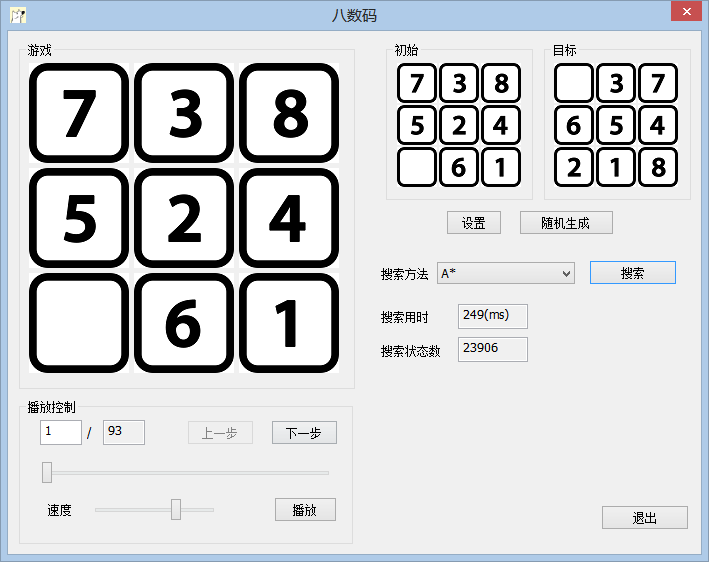
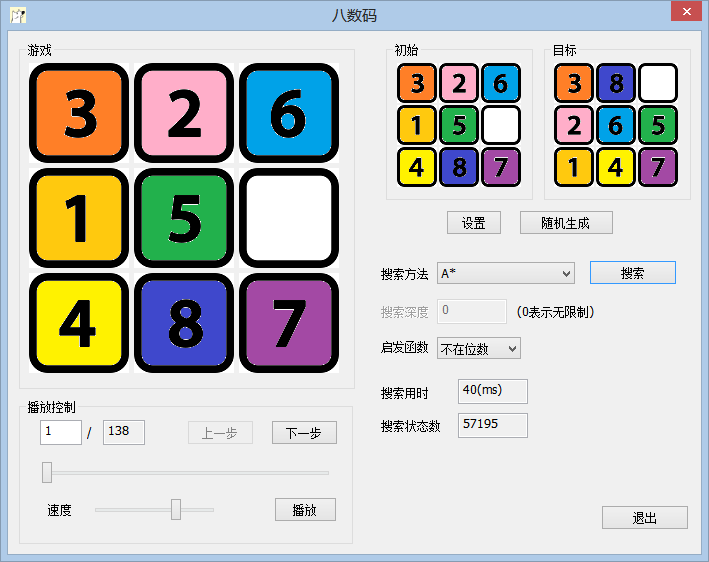
完善文档

diff --git a/Doc/八数码.tex b/Doc/八数码.tex
@@ -55,14 +55,15 @@
 \subsection{界面}
 \begin{figure}[H]
 \centering
-\includegraphics[width=0.8\textwidth]{1.png}
+\includegraphics[width=0.6\textwidth]{1.png}
 \caption{界面} 
 \end{figure}
 \subsection{操作说明}
 \subsubsection{始末状态}
 始末状态可以手动设置，也可以随机生成。（始末状态会通过逆序数方法检查是否可解，如果不可解就会提示用户；随机生成的组合都是可解的）
 \subsubsection{搜索方法}
-程序提供了3种搜索方法，可以通过下拉列表选择。
+程序提供了3种搜索方法，可以通过下拉列表选择。\par
+在A*算法中可以选择估值函数，在DFS算法中可以设置搜索深度。
 \subsubsection{结果演示}
 结果会在左侧显示，操作方法与普通视频播放器的风格类似，右侧给出了搜索用时和访问的状态数。
 \section{程序设计}
@@ -117,19 +118,116 @@ protected:
     clock_t stopTime;
 };
 \end{lstlisting}
-\subsubsection{搜索方法}
-
+\subsubsection{搜索算法}
+【BFS】
+ 广搜采用队列实现，部分代码如下：
+ \begin{lstlisting}
+ bool BFS::Search()
+{
+    EightFigureState state,temp;
+    route.push_back(startState);
+    close.insert(startState.data);
+    q.push(startState);
+    do 
+    {
+        state = q.front();
+        q.pop();
+        if (state == targetState)
+        {...}
+        for (int i = 0;i<4;i++)
+        {
+            temp = state;
+            if (temp.Move((Direction)i))
+            {
+                if (!close.count(temp.data))
+                {
+                    q.push(temp);
+                    close.insert(temp.data);
+                }
+            }
+        }
+    }while (!q.empty());
+    return false;
+}
+ \end{lstlisting}
+【DFS】
+深搜采用堆栈实现，部分代码如下：
+ \begin{lstlisting}
+ bool DFS::Search()
+{
+    EightFigureState state,temp;
+    startState.depth = 0;
+    route.push_back(startState);
+    close.insert(startState.data);
+    s.push(startState);
+    do 
+    {
+        state = s.top();
+        s.pop();
+        while((depth != 0) && (state.depth > depth))
+        {...}
+        if (state == targetState)
+        {...}
+        for (int i = 0;i<4;i++)
+        {
+            temp = state;
+            if (temp.Move((Direction)i))
+            {
+                if (!close.count(temp.data))
+                {
+                    temp.depth = state.depth + 1;
+                    s.push(temp);
+                    close.insert(temp.data);
+                }
+            }
+        }
+    }while (!s.empty());
+    return false;
+}
+ \end{lstlisting}
+【A*】
+A*算法采用优先队列实现，使用函数值f为关键码的优先队列，部分代码如下：
+ \begin{lstlisting}
+ bool AStar::Search()
+{
+    EightFigureState state,temp;
+    startState.depth = 0;
+    startState.fVaule = 10*(this->*clac)(startState,targetState);
+    close.insert(startState.data);
+    q.push(startState);
+    do 
+    {
+        state = q.top();
+        q.pop();
+        if (state == targetState)
+        {...}
+        for (int i = 0;i<4;i++)
+        {
+            temp = state;
+            if (temp.Move((Direction)i))
+            {
+                temp.depth = state.depth + 1;
+                temp.fVaule = temp.depth + 10*(this->*clac)(temp,targetState);
+                if (!close.count(temp.data))
+                {
+                    q.push(temp);
+                    close.insert(temp.data);
+                }
+            }
+        }
+    }while (!q.empty());
+    return false;
+}
+ \end{lstlisting}
 \section{设计心得}
 \subsection{收获}
-感觉在这次程序设计中类的编写和封装比上一次的实现有了提高，整个编程思路变清晰了。\par
+感觉在这次程序设计中类的编写和封装比上一次的实现有了提高，整个编程思路显得清晰了一些。\par
 而且在这次开发中使用了VS的单元测试框架，进行了一些单元测试，提高了开发的成功率，减少了调试消耗的时间，单元测试是一种很好的方法，以后会一直使用。
 \begin{figure}[H]
 \centering
 \includegraphics{2.png}
 \caption{单元测试} 
 \end{figure}
-\subsection{问题}
-A*算法中，估值函数的选取是一个值得分析的问题。
 \section{文件清单}
 \begin{itemize}
 \item src$\backslash$ 工程文件
@@ -145,7 +243,6 @@ A*算法中，估值函数的选取是一个值得分析的问题。
 \end{itemize}
 \item src$\backslash$ UnitTest $\backslash$ 单元测试
 \end{itemize}
-
 \item bin$\backslash$ 可执行文件
 \item doc$\backslash$ 文档
 \end{itemize}
